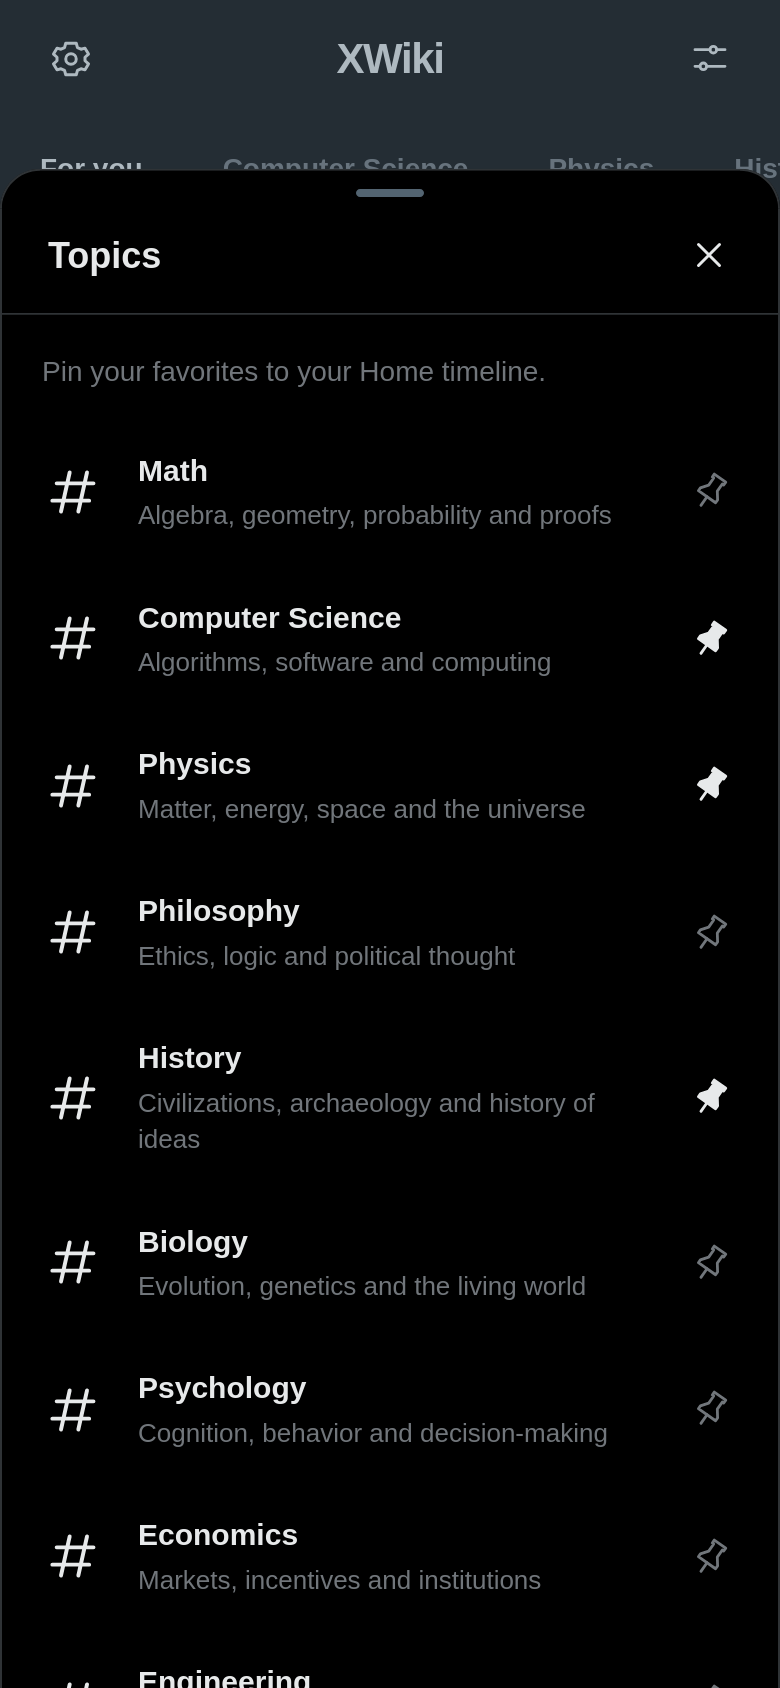
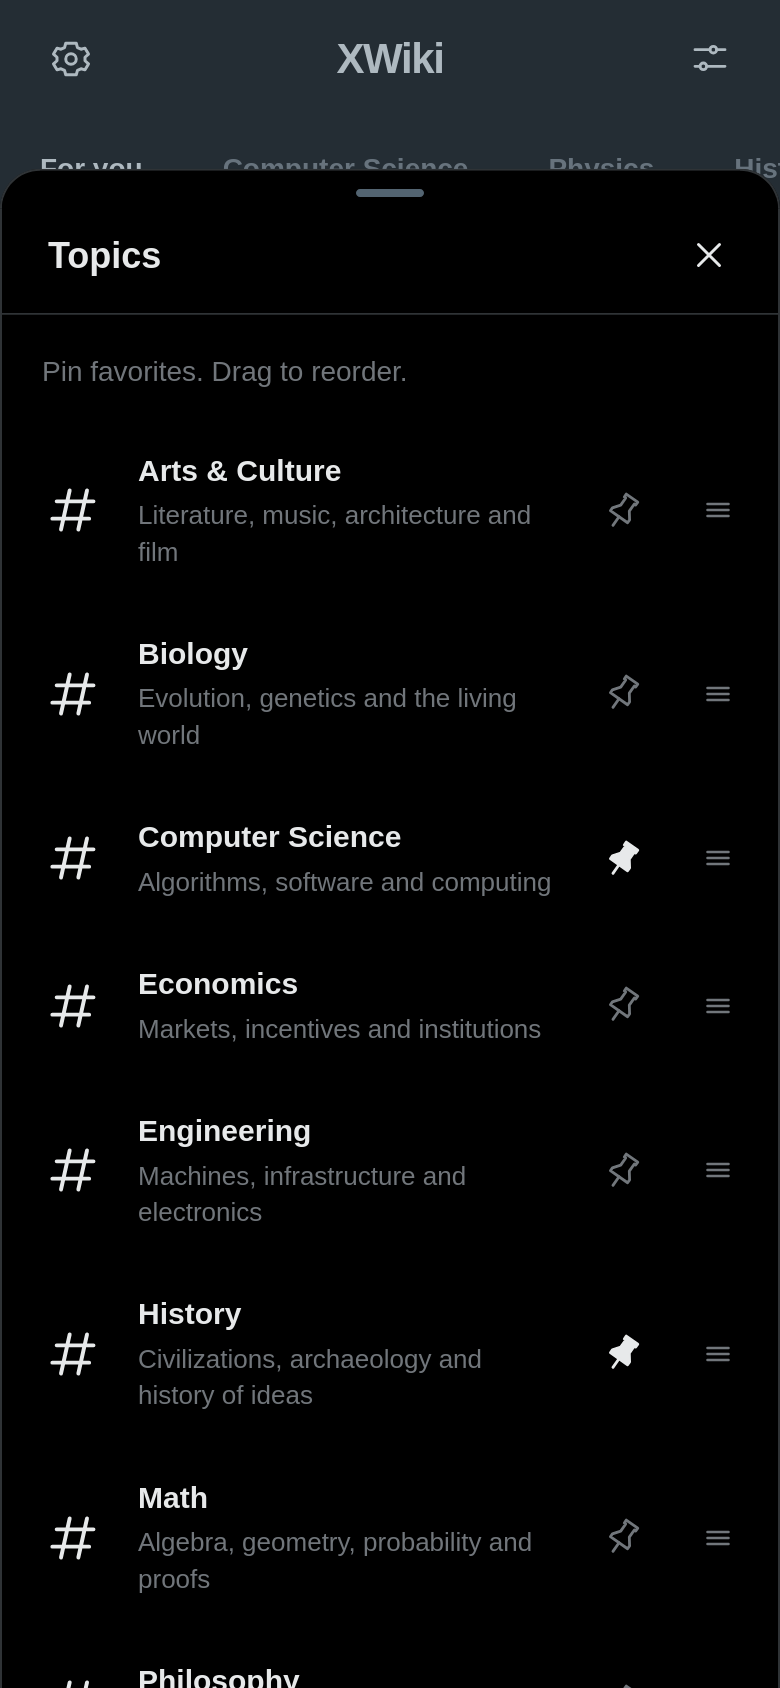
fix: extra padding when no image present and topic picker reordering

diff --git a/src/topic-reorder.js b/src/topic-reorder.js
@@ -1,0 +1,108 @@
+import { moveTopic, topicFor } from './topics.js';
+
+// Pointer capture keeps touch and mouse drags on the handle without hijacking row scrolling.
+export function attachTopicReorder({ list, save, announce }) {
+  const dialog = list.closest('dialog'), controller = new AbortController();
+  let drag = null, frame = 0;
+  const rows = () => [...list.querySelectorAll('.topic-row')];
+  const order = () => rows().map(row => row.dataset.topicId);
+  const position = () => `${topicFor(drag.id).label}, position ${order().indexOf(drag.id) + 1} of ${rows().length}.`;
+  function begin(handle, pointer = null) {
+    const row = handle.closest('.topic-row');
+    drag = { handle, row, id: row.dataset.topicId, original: order(), pointer,
+      started: pointer === null, y: pointer?.clientY, startY: pointer?.clientY,
+      offset: pointer ? pointer.clientY - row.getBoundingClientRect().top : 0 };
+    handle.focus({ preventScroll: true });
+    if (drag.started) lift();
+  }
+  function lift() {
+    drag.started = true;
+    list.classList.add('is-reordering');
+    drag.row.classList.add('is-dragging');
+    drag.handle.setAttribute('aria-pressed', 'true');
+    announce(`${topicFor(drag.id).label} picked up. Use arrow keys to move, Space to save, or Escape to cancel.`);
+  }
+  function moveTo(index) {
+    const next = moveTopic(order(), drag.id, index);
+    const others = rows().filter(row => row !== drag.row);
+    list.insertBefore(drag.row, others[next.indexOf(drag.id)] || null);
+  }
+  function followPointer() {
+    const others = rows().filter(row => row !== drag.row);
+    const index = others.findIndex(row => {
+      const box = row.getBoundingClientRect();
+      return drag.y < box.top + box.height / 2;
+    });
+    moveTo(index < 0 ? others.length : index);
+    drag.row.style.transform = '';
+    const top = drag.row.getBoundingClientRect().top;
+    drag.row.style.transform = `translateY(${drag.y - drag.offset - top}px)`;
+  }
+  function autoScroll() {
+    if (!drag?.pointer || !drag.started) return;
+    const box = dialog.getBoundingClientRect();
+    const top = box.top + dialog.querySelector('.sheet-header').offsetHeight;
+    const speed = drag.y > box.bottom - 48 ? Math.min(18, (drag.y - box.bottom + 48) / 3) :
+      drag.y < top + 48 ? -Math.min(18, (top + 48 - drag.y) / 3) : 0;
+    if (speed) { dialog.scrollTop += speed; followPointer(); }
+    frame = requestAnimationFrame(autoScroll);
+  }
+  function finish(commit) {
+    if (!drag) return;
+    cancelAnimationFrame(frame);
+    const current = drag, next = order();
+    const changed = next.some((id, index) => id !== current.original[index]);
+    // Clear before releasing capture: lostpointercapture must not cancel a saved drop.
+    drag = null;
+    if (current.pointer && list.hasPointerCapture(current.pointer.pointerId)) list.releasePointerCapture(current.pointer.pointerId);
+    current.row.style.transform = '';
+    current.row.classList.remove('is-dragging');
+    current.handle.setAttribute('aria-pressed', 'false');
+    list.classList.remove('is-reordering');
+    const saved = commit && changed ? save(next) : commit;
+    if (!saved) for (const id of current.original) list.append(rows().find(row => row.dataset.topicId === id));
+    current.handle.focus({ preventScroll: true });
+    if (current.started) announce(saved ? `${topicFor(current.id).label} placed at position ${next.indexOf(current.id) + 1}.` :
+      commit && changed ? 'Could not save topic order. Previous order restored.' : 'Reorder canceled. Topic order unchanged.');
+  }
+  const listen = (type, callback) => list.addEventListener(type, callback, { signal: controller.signal });
+  listen('pointerdown', event => {
+    const handle = event.target.closest('.topic-reorder');
+    if (!handle || event.button !== 0 || !event.isPrimary) return;
+    event.preventDefault();
+    if (drag) finish(false);
+    begin(handle, event);
+    list.setPointerCapture(event.pointerId);
+  });
+  listen('pointermove', event => {
+    if (!drag?.pointer || drag.pointer.pointerId !== event.pointerId) return;
+    drag.y = event.clientY;
+    if (!drag.started && Math.abs(drag.y - drag.startY) < 4) return;
+    if (!drag.started) { lift(); frame = requestAnimationFrame(autoScroll); }
+    followPointer();
+  });
+  listen('pointerup', event => {
+    if (drag?.pointer?.pointerId === event.pointerId) finish(true);
+  });
+  for (const type of ['pointercancel', 'lostpointercapture']) listen(type, event => {
+    if (drag?.pointer?.pointerId === event.pointerId) finish(false);
+  });
+  listen('keydown', event => {
+    const handle = event.target.closest('.topic-reorder');
+    if (!handle) return;
+    if (event.key === ' ' || event.key === 'Enter') {
+      event.preventDefault(); event.stopPropagation();
+      if (drag) finish(true); else begin(handle);
+    } else if (drag && event.key === 'Escape') {
+      event.preventDefault(); event.stopPropagation(); finish(false);
+    } else if (drag && ['ArrowUp', 'ArrowDown', 'Home', 'End'].includes(event.key)) {
+      event.preventDefault(); event.stopPropagation();
+      const index = order().indexOf(drag.id);
+      moveTo(event.key === 'Home' ? 0 : event.key === 'End' ? rows().length - 1 : index + (event.key === 'ArrowUp' ? -1 : 1));
+      drag.handle.focus({ preventScroll: true });
+      drag.row.scrollIntoView({ block: 'nearest' });
+      announce(position());
+    } else if (drag && event.key === 'Tab') finish(false);
+  });
+  dialog.addEventListener('close', () => { finish(false); controller.abort(); }, { once: true });
+}

diff --git a/src/app.js b/src/app.js
@@ -7,7 +7,8 @@ import { attachPullRefresh } from './pull-refresh.js';
 import { SAMPLE_ARTICLES } from './samples.js';
 import { icon } from './icons.js';
 import { excerpt, firstParagraph, wikipediaLink } from './reading.js';
-import { HOME_FEEDS, RANKED_FEEDS, TOPICS, homeFeeds, normalizePins, isPersonalized, matchesTopic, topicFor } from './topics.js';
+import { HOME_FEEDS, RANKED_FEEDS, homeFeeds, normalizePins, normalizeTopicOrder, isPersonalized, matchesTopic, topicFor } from './topics.js';
+import { attachTopicReorder } from './topic-reorder.js';
 
 const $ = selector => document.querySelector(selector);
 const esc = value => String(value ?? '').replace(/[&<>"']/g, c => ({ '&': '&amp;', '<': '&lt;', '>': '&gt;', '"': '&quot;', "'": '&#39;' })[c]);
@@ -19,12 +20,14 @@ const feeds = new FeedSession();
 const cached = readStorage('feed', { articles: [] });
 const storedProfile = readStorage('profile-v1', emptyProfile());
 const profile = storedProfile.version === 1 && storedProfile.likes && storedProfile.rejected ? storedProfile : emptyProfile();
+const storedTopicOrder = readStorage('topic-order-v1', null);
 const state = {
   articles: cached.articles || [], profile,
   settings: readStorage('settings', { images: true }), page: 'home', mode: 'for-you', homeMode: 'for-you', exploreMode: 'top',
   visible: 12, order: [], query: '', backend: null, archive: null, searchIds: null, searchCursor: null,
   searchLoading: false,
   pins: normalizePins(readStorage('pinned-topics-v1', null)),
+  topicOrder: Array.isArray(storedTopicOrder) ? normalizeTopicOrder(storedTopicOrder) : null,
   loading: true, offline: false, ready: false, paused: false, seed: Math.floor(Math.random() * 1e9),
 };
 let observer, toastTimer, returnFocus, searchTimer, undoAction, homeScroll = 0, homeVisible = 12, generation = 0, searchTicket = 0;
@@ -90,14 +93,25 @@ function feedTabs(items, label) {
   }).join('')}</div>`;
 }
 function homeTabBar() {
-  return `<div class="home-tabs-host">${feedTabs(homeFeeds(state.pins, state.homeMode), 'Home feeds')}</div>`;
+  return `<div class="home-tabs-host">${feedTabs(homeFeeds(state.pins, state.homeMode, state.topicOrder), 'Home feeds')}</div>`;
 }
 function browseTopics() {
-  showSheet('Topics', `<p class="topics-intro">Pin your favorites to your Home timeline.</p><p id="pin-status" class="sr-only" role="status" aria-live="polite">${state.pins.length} topics pinned</p><div class="topic-list">${TOPICS.map(topic => {
+  showSheet('Topics', `<p class="topics-intro">Pin favorites. Drag to reorder.</p><p id="topic-sort-hint" class="sr-only">On a reorder handle, press Space to pick up a topic, use arrow keys to move it, then Space or Enter to save. Escape cancels.</p><p id="pin-status" class="sr-only" role="status" aria-live="polite">${state.pins.length} topics pinned</p><p id="topic-order-status" class="sr-only" role="status" aria-live="polite"></p><div class="topic-list" role="list" aria-label="Topic order">${normalizeTopicOrder(state.topicOrder).map(id => {
+    const topic = topicFor(id);
     const pinned = state.pins.includes(topic.id);
-    return `<div class="topic-row"><button class="topic-open" data-action="open-topic" data-topic="${topic.id}"><span class="topic-symbol" aria-hidden="true">${icon('hash')}</span><span class="topic-copy"><strong>${esc(topic.label)}</strong><span>${esc(topic.description)}</span></span></button><button class="topic-pin ${pinned ? 'pinned' : ''}" data-action="pin-topic" data-topic="${topic.id}" aria-label="${pinned ? 'Unpin' : 'Pin'} ${esc(topic.label)}" aria-pressed="${pinned}" title="${pinned ? 'Unpin from' : 'Pin to'} Home">${icon('pin')}</button></div>`;
+    return `<div class="topic-row" role="listitem" data-topic-id="${topic.id}"><button class="topic-open" data-action="open-topic" data-topic="${topic.id}"><span class="topic-symbol" aria-hidden="true">${icon('hash')}</span><span class="topic-copy"><strong>${esc(topic.label)}</strong><span>${esc(topic.description)}</span></span></button><button class="topic-pin ${pinned ? 'pinned' : ''}" data-action="pin-topic" data-topic="${topic.id}" aria-label="${pinned ? 'Unpin' : 'Pin'} ${esc(topic.label)}" aria-pressed="${pinned}" title="${pinned ? 'Unpin from' : 'Pin to'} Home">${icon('pin')}</button><button class="topic-reorder" type="button" aria-label="Reorder ${esc(topic.label)}" aria-describedby="topic-sort-hint" aria-pressed="false" title="Drag to reorder">${icon('drag-handle')}</button></div>`;
   }).join('')}</div>`);
   $('#sheet').scrollTop = 0;
+  attachTopicReorder({
+    list: $('.topic-list'),
+    announce: message => { $('#topic-order-status').textContent = message; },
+    save: order => {
+      if (!writeStorage('topic-order-v1', order)) { toast('Device storage is full. Topic order could not be saved.'); return false; }
+      state.topicOrder = order;
+      $('.home-tabs-host').innerHTML = feedTabs(homeFeeds(state.pins, state.homeMode, order), 'Home feeds');
+      return true;
+    },
+  });
 }
 function togglePin(button) {
   const topic = topicFor(button.dataset.topic);
@@ -114,7 +128,7 @@ function togglePin(button) {
     state.homeMode = 'for-you'; state.visible = 12; homeScroll = 0; homeVisible = 12;
     activateFeed('for-you'); renderPage(); ensureFeed();
   }
-  $('.home-tabs-host').innerHTML = feedTabs(homeFeeds(state.pins, state.homeMode), 'Home feeds');
+  $('.home-tabs-host').innerHTML = feedTabs(homeFeeds(state.pins, state.homeMode, state.topicOrder), 'Home feeds');
   $('#pin-status').textContent = `${next.length} ${next.length === 1 ? 'topic' : 'topics'} pinned`;
 }
 function shell() {

diff --git a/src/topics.js b/src/topics.js
@@ -37,11 +37,24 @@ export const isPersonalized = mode => HOME_FEEDS.some(feed => feed.id === mode);
 
 export const EXACT_TOPIC_TERMS = ['art', 'math'];
 export const DEFAULT_PINS = ['computer-science', 'physics', 'history'];
+export const DEFAULT_TOPIC_ORDER = [...TOPICS].sort((a, b) => a.label.localeCompare(b.label, 'en')).map(topic => topic.id);
+export function normalizeTopicOrder(value) {
+  const saved = Array.isArray(value) ? [...new Set(value.filter(id => topicFor(id)))] : [];
+  return [...saved, ...DEFAULT_TOPIC_ORDER.filter(id => !saved.includes(id))];
+}
+export function moveTopic(order, id, index) {
+  const ids = normalizeTopicOrder(order);
+  if (!ids.includes(id)) return ids;
+  ids.splice(ids.indexOf(id), 1);
+  ids.splice(Math.max(0, Math.min(ids.length, index)), 0, id);
+  return ids;
+}
 export function normalizePins(value) {
   return Array.isArray(value) ? [...new Set(value.filter(id => topicFor(id)))] : [...DEFAULT_PINS];
 }
-export function homeFeeds(pins, active = 'for-you') {
-  const ids = normalizePins(pins);
+export function homeFeeds(pins, active = 'for-you', order = null) {
+  let ids = normalizePins(pins);
+  if (order) ids = normalizeTopicOrder(order).filter(id => ids.includes(id));
   // An unpinned topic can be opened without silently pinning it.
   if (topicFor(active) && !ids.includes(active)) ids.push(active);
   return [HOME_FEEDS[0], ...ids.map(topicFor)];

diff --git a/style.css b/style.css
@@ -44,6 +44,12 @@ h1,h2,h3,h4,p { margin:0; }
 .topic-pin.pinned { color:var(--text); }
 .topic-pin.pinned .icon { fill:currentColor; }
 .topic-pin:hover { background:#ffffff0f; color:var(--text); }
+.topic-reorder { display:grid; place-items:center; flex-shrink:0; width:36px; height:44px; padding:0; color:var(--muted); cursor:grab; touch-action:none; user-select:none; border-radius:6px; }
+.topic-reorder .icon { width:18px; height:18px; }
+.topic-reorder:hover,.topic-reorder[aria-pressed="true"] { color:var(--text); background:#ffffff0a; }
+.topic-list.is-reordering { user-select:none; }
+.topic-row.is-dragging { position:relative; z-index:1; background:var(--soft); box-shadow:0 4px 18px #0009; }
+.topic-row.is-dragging .topic-reorder { cursor:grabbing; }
 .page-heading { padding:10px 17px 14px; }
 .page-heading h1 { font-size:22px; font-weight:800; }
 .source-note { min-height:39px; display:flex; align-items:center; justify-content:center; gap:7px; width:100%; padding:8px 12px; font-size:11px; color:var(--muted); border-bottom:1px solid var(--line); }

diff --git a/src/icons.js b/src/icons.js
@@ -1,4 +1,5 @@
 const paths = {
+  'drag-handle': '<path d="M5 8h14M5 12h14M5 16h14"/>',
   pin: '<path d="M8 3h8v2h-1v5l3 4v2H6v-2l3-4V5H8Z"/><path d="M12 16v6"/>',
   'timeline-settings': '<path d="M3 7h9m4 0h5M3 17h3m4 0h11"/><circle cx="14" cy="7" r="2"/><circle cx="8" cy="17" r="2"/>',
   hash: '<path d="m10 3-4 18M18 3l-4 18M4 8h17M2 16h17"/>',

diff --git a/docs/development.md b/docs/development.md
@@ -69,6 +69,8 @@ The exporter reads a consistent SQLite snapshot, checks comment offsets, and sta
 
 Recommendations, likes, seen history, and pins stay in the browser. Saved preferences use localStorage. Topic matching checks article titles, descriptions, and Wikipedia categories; mentions in body text alone do not qualify an article. Top and Rising preserve published ranking order regardless of likes. Original HN comment text is escaped before rendering.
 
+The topic picker defaults to alphabetical order. Dragging a handle saves a custom order separately from pin membership; pinned Home tabs follow that custom order. Without a saved order, the Home defaults remain Computer Science, Physics, History. Reordering supports mouse and touch, edge scrolling, and Space/arrow/Enter keyboard controls with Escape to cancel. New topics are appended alphabetically to saved orders.
+
 ## Tests
 
 ```sh
@@ -92,6 +94,7 @@ site.webmanifest              Home-screen metadata and icons
 style.css                     Dark, responsive interface
 src/app.js                    UI and navigation
 src/topics.js                 Topic definitions and pin defaults
+src/topic-reorder.js          Pointer and keyboard topic reordering
 src/static-catalog.js         Static retrieval, search and pagination
 src/recommendations.js        Local recommendation ranking
 images/                       Icons and illustrations

diff --git a/README.md b/README.md
@@ -28,7 +28,7 @@ XWiki turns Wikipedia articles shared on Hacker News into a personal, X-style fe
 ## Follow your curiosity
 
 - **A feed that learns your interests.** For you mixes discoveries, popular articles, and rising topics. Heart a post to see more related ideas; mark it as seen to hide it, or choose Not interested to steer recommendations away from it.
-- **Your subjects, your timeline.** Open any topic or pin favorites beside For you. Computer Science, Physics, and History start pinned; your choices stay saved in your browser.
+- **Your subjects, your timeline.** Open any topic or pin favorites beside For you. The picker starts alphabetically; drag its handles to set your own order, including your pinned tabs. Computer Science, Physics, and History start pinned; your choices stay saved in your browser.
 - **Read a little. Explore further.** Expand a preview to its full first paragraph, or open the article on Wikipedia when something catches your attention.
 - **See why it was shared.** The comments button opens the original Hacker News mentions, with links back to their discussions.
 - **Find your next rabbit hole.** Search the archive, browse all-time favorites in Top, or explore the last six months of activity in Rising.
